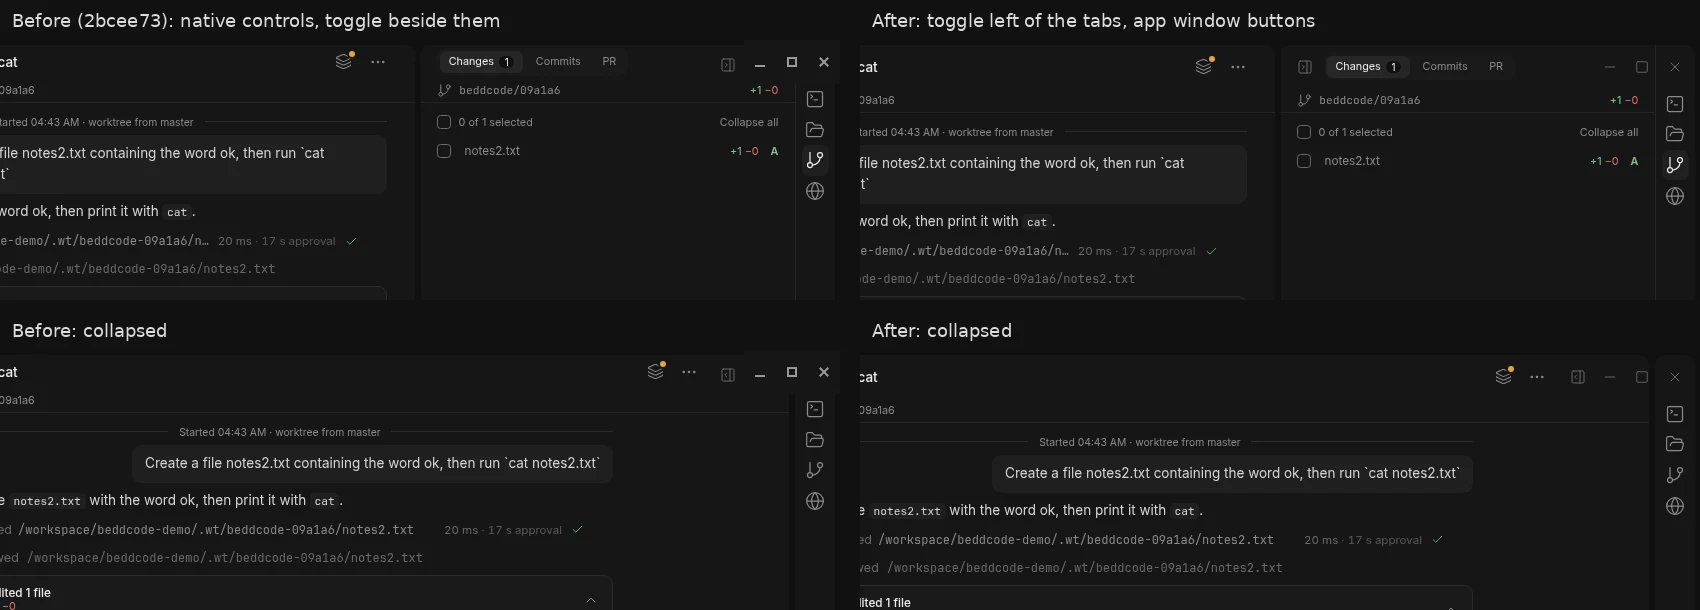
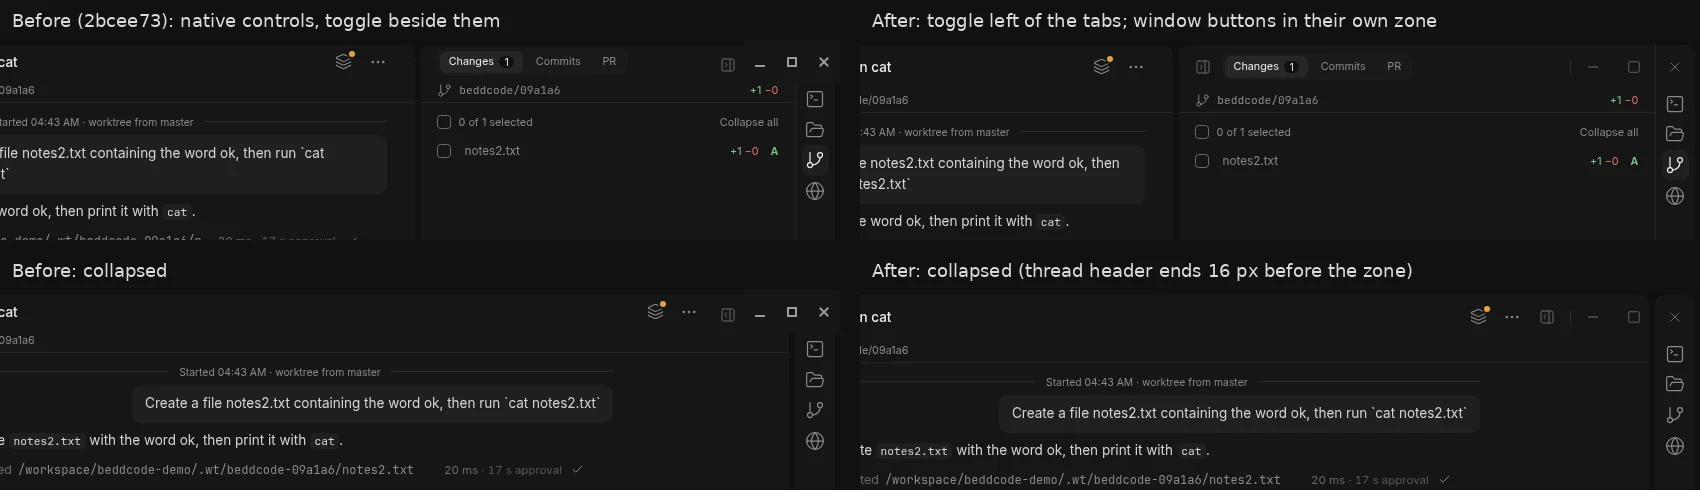
Give the window buttons their own zone in the header row
- Every header control (Git tabs, pane titles, the pane toggle, and the
  thread header's Environment and ⋯ when the pane is collapsed) now ends at
  least --winbar-sep (16px) before the window buttons, with a quiet 1px
  divider in the middle of that separation.
- More room between the three buttons (--winbar-gap, 10.2px at 0.9 scale):
  with the pane collapsed the gutter between the thread and the rail falls
  exactly between maximize and close, so no button straddles it.
- With the window buttons the right pane is at least 340px so the Git tabs
  still fit (tightened) at a 930px window.
- Screenshot 15-window-controls.webp updated.

diff --git a/apps/web/src/ui/app.css b/apps/web/src/ui/app.css
@@ -3407,6 +3407,18 @@ button.tcall-row:hover .tcall-chevron,
   gap: var(--winbar-gap);
   -webkit-app-region: no-drag;
 }
+/* A quiet divider in the middle of the separation, marking the window controls' own zone. */
+.winbar::before {
+  content: '';
+  position: absolute;
+  top: 50%;
+  left: calc(var(--winbar-sep) / -2);
+  width: 1px;
+  height: calc(16px * var(--ui-scale));
+  transform: translateY(-50%);
+  background: var(--border);
+  pointer-events: none;
+}
 .winbar .icon-btn {
   color: var(--text-faint);
 }
@@ -3419,19 +3431,20 @@ button.tcall-row:hover .tcall-chevron,
   outline-offset: -2px;
 }
 :root:has(.winbar) {
-  --winbar-span: calc(3 * var(--head-btn) + 3 * var(--winbar-gap));
+  --winbar-w: calc(3 * var(--head-btn) + 2 * var(--winbar-gap));
+  --winbar-span: calc(var(--winbar-w) + var(--winbar-sep));
 }
 /* Headers under the window buttons end before them. */
 .right.has-pane .side-pane .git-tabs {
-  margin-right: max(var(--pane-pad-x), calc(var(--winbar-reach) + var(--winbar-gap)));
+  margin-right: max(var(--pane-pad-x), var(--winbar-reach));
 }
 .right.has-pane .side-pane .pane-head {
-  padding-right: max(var(--pane-pad-x), calc(var(--winbar-reach) + var(--winbar-gap)));
+  padding-right: max(var(--pane-pad-x), var(--winbar-reach));
 }
 .shell:not(:has(.right.has-pane)) .thread-head {
   padding-right: max(
     calc(24px * var(--ui-scale)),
-    calc(var(--winbar-reach) + var(--head-btn) + var(--winbar-gap) - var(--gap) + 8px)
+    calc(var(--winbar-reach) + var(--head-btn) + 4px * var(--ui-scale) - var(--gap))
   );
 }
 /* A narrow pane keeps its tabs clear of the window buttons: tighter tabs, then shrinking ones. */
@@ -3440,10 +3453,7 @@ button.tcall-row:hover .tcall-chevron,
 }
 .right.has-pane .side-pane .git-tabs {
   min-width: 0;
-  max-width: calc(
-    100% - var(--toggle-reach) -
-      max(var(--pane-pad-x), calc(var(--winbar-reach) + var(--winbar-gap)))
-  );
+  max-width: calc(100% - var(--toggle-reach) - max(var(--pane-pad-x), var(--winbar-reach)));
 }
 .git-tabs button {
   flex: 0 1 auto;

diff --git a/apps/web/src/ui/tokens.css b/apps/web/src/ui/tokens.css
@@ -71,11 +71,16 @@
   /* Pane toggle at the start of a pane's header: its icon on the content edge. */
   --toggle-left: calc(var(--pane-pad-x) - 8px * var(--ui-scale));
   --toggle-reach: calc(var(--toggle-left) + var(--head-btn) + 4px * var(--ui-scale));
-  /* Window buttons: the close button centred over the rail; --winbar-span is 0 without them. */
-  --winbar-gap: calc(2px * var(--ui-scale));
+  /* Window buttons: their own zone at the top right, close centred over the rail. The gap between
+     buttons is chosen so that, with the pane collapsed, the gutter between the thread and the rail
+     falls exactly between maximize and close. --winbar-sep keeps every header control clear of
+     the zone (a 1px divider sits in its middle). Both spans are 0 without the window buttons. */
+  --winbar-gap: calc(var(--gap) + (var(--rail-w) - var(--head-btn)) / 2);
+  --winbar-sep: 16px;
   --winbar-right: calc(var(--gap) + (var(--rail-w) - var(--head-btn)) / 2);
+  --winbar-w: 0px;
   --winbar-span: 0px;
-  /* How far the window buttons (and the gap before them) reach into the pane left of the rail. */
+  /* How far the zone, its separation included, reaches into the pane left of the rail. */
   --winbar-reach: calc(var(--winbar-right) + var(--winbar-span) - var(--rail-w) - var(--gap));
   color-scheme: dark;
 }

diff --git a/apps/web/src/features/shell/AppShell.tsx b/apps/web/src/features/shell/AppShell.tsx
@@ -141,7 +141,7 @@ export function AppShell() {
           onResize={onRightResize}
           defaultSize="30%"
           // The app's own window buttons take part of the header row; the tabs still need to fit.
-          minSize={appWindowControls() ? '320px' : '280px'}
+          minSize={appWindowControls() ? '340px' : '280px'}
           maxSize="75%"
           groupResizeBehavior="preserve-pixel-size"
         >
